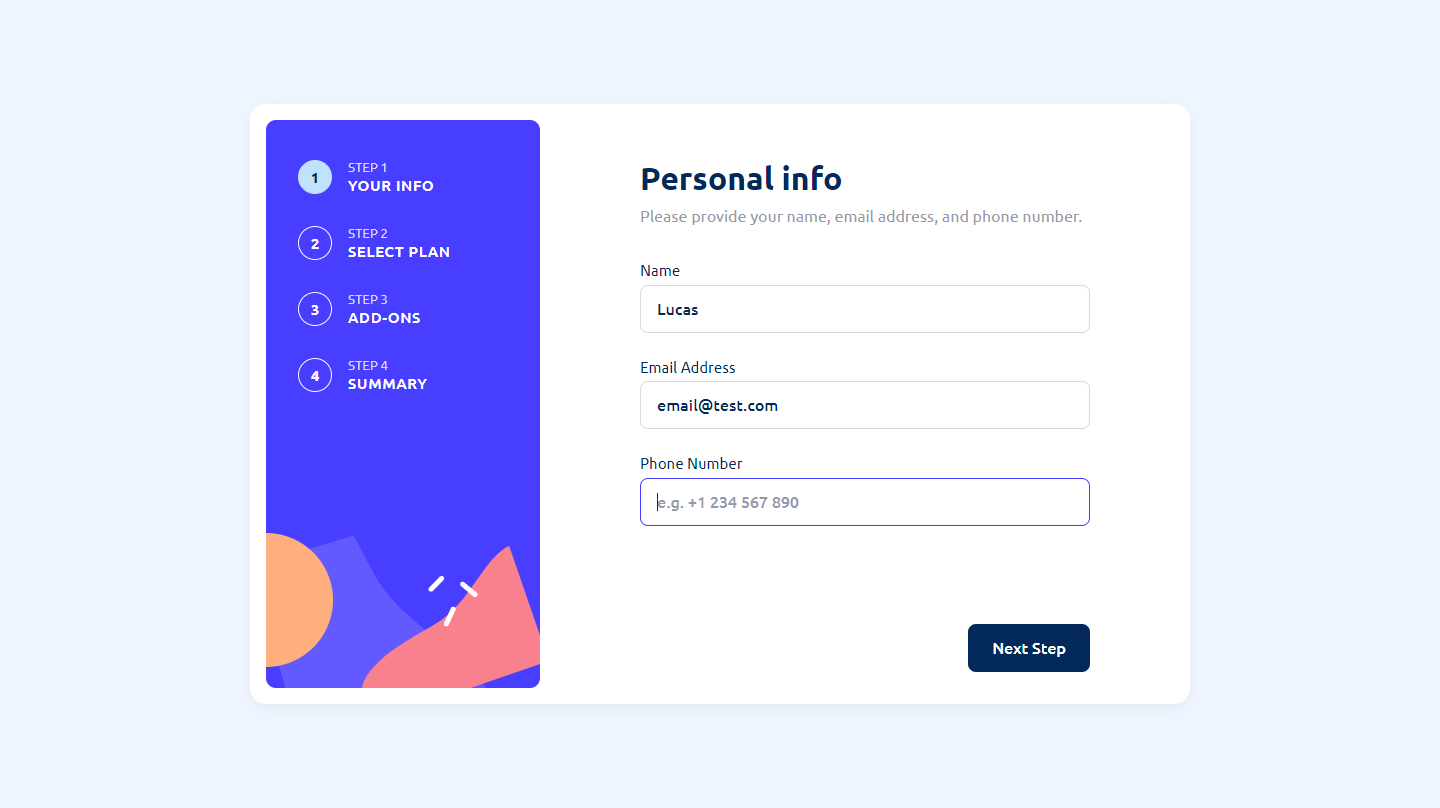
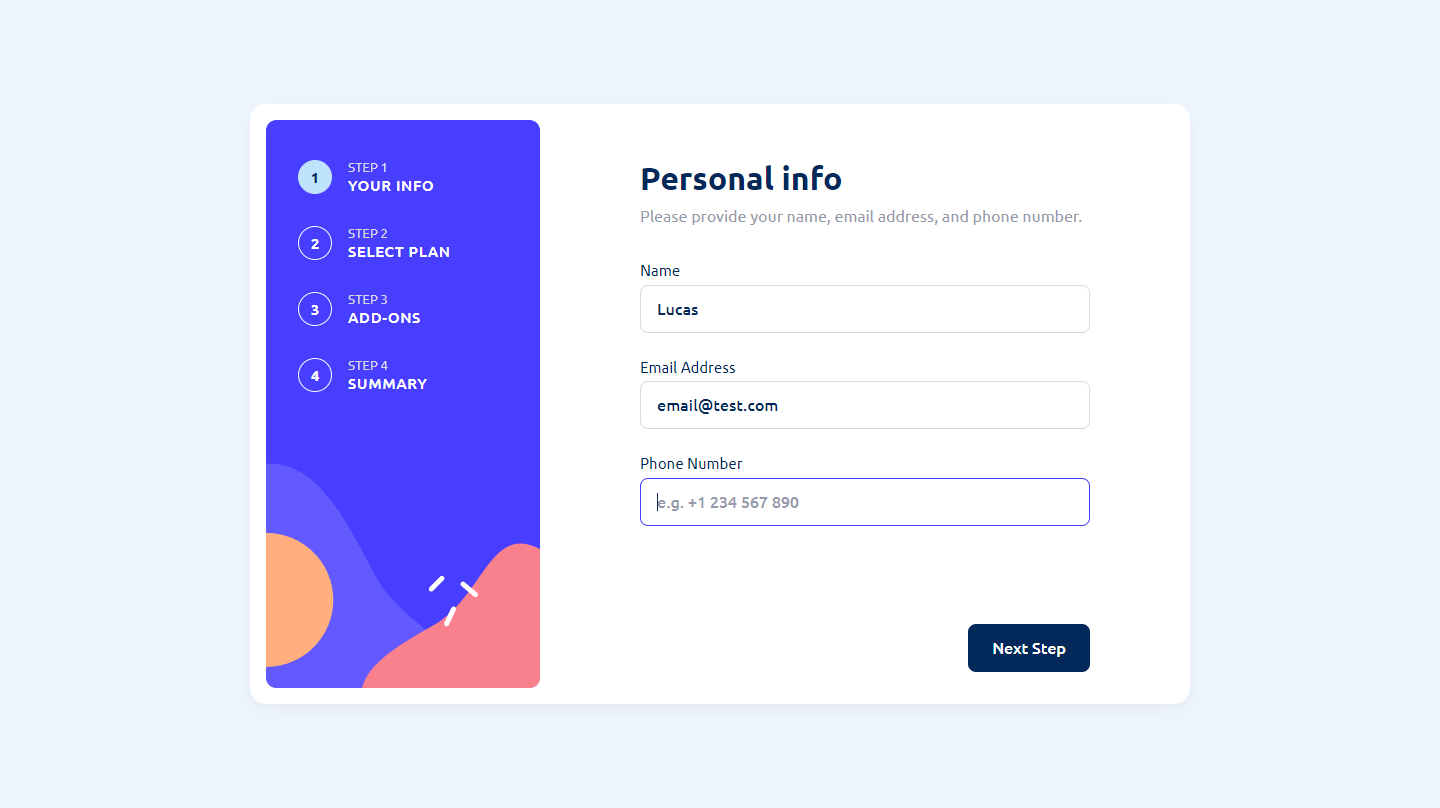
images update

diff --git a/docs/assets/index.b7fdeb86.css b/docs/assets/index.b7fdeb86.css
@@ -1,0 +1,1 @@
+*,*:before,*:after{box-sizing:border-box}*{padding:0;margin:0}html:focus-within{scroll-behavior:smooth}html,body{height:100%}body{text-rendering:optimizeSpeed;line-height:1}a:not([class]){text-decoration-skip-ink:auto}a,a:visited,a:active{text-decoration:none}ul,ol{list-style:none}img,picture,svg{max-width:100%;display:block}input,button,textarea,select{font:inherit}button,[type=button],[type=reset],[type=submit]{border:0;cursor:pointer}@media (prefers-reduced-motion: reduce){html:focus-within{scroll-behavior:auto}*,*:before,*:after{animation-duration:.01ms!important;animation-iteration-count:1!important;transition-duration:.01ms!important;scroll-behavior:auto!important}}:root{--duration-1: .15s;--duration-2: .2s;--step-duration: .5s;--step-delay: .1s}body{background-color:var(--color-magnolia)}@media screen and (max-width: 63.99875em){body:before{content:"";width:100%;height:10.75rem;position:absolute;background:url(./bg-sidebar-mobile.f8e29a05.svg) center/cover no-repeat;z-index:-1}}@media screen and (max-width: 63.99875em) and (max-width: 23.43625em){body:before{background-size:auto}}@media screen and (min-width: 64em){main{padding-block:6.5rem}}.flex-column{display:flex;flex-direction:column}.space-between{display:flex;justify-content:space-between;column-gap:.625rem}.align-center{display:flex;align-items:center}.hidden{display:none!important}.invisible{width:0px;position:absolute;opacity:hidden}:root{--font-ubuntu: "Ubuntu", sans-serif;--font-size-headline-2: 1.5rem;--font-size-headline-3: .9375rem;--font-size-2: .8125rem;--font-size-3: .875rem;--font-size-4: 1rem;--font-size-5: var(--font-size-3);--font-size-6: var(--font-size-4)}@media screen and (min-width: 48em){:root{--font-size-headline-2: 1.75rem;--font-size-headline-3: 1.0625rem;--font-size-2: .9375rem;--font-size-3: 1rem;--font-size-4: 1.125rem}}@media screen and (min-width: 64em){:root{--font-size-headline-2: 2rem;--font-size-2: .875rem;--font-size-3: .9375rem;--font-size-4: 1rem;--font-size-5: 1rem;--font-size-6: 1.25rem}}body{font-family:var(--font-ubuntu)}.headline-2{font-size:var(--font-size-headline-2);font-weight:700;color:var(--color-marine-blue);margin-block-end:.625rem}.headline-3{font-size:var(--font-size-headline-3);font-weight:700;color:var(--color-marine-blue)}.text{font-size:var(--font-size-4);font-weight:400;color:var(--color-cool-gray);line-height:1.5}.text--xsm{font-size:var(--font-size-2)}.text--sm{font-size:var(--font-size-3)}.text--md{font-size:var(--font-size-5)}.text--lg{font-size:var(--font-size-6)}.text--700{font-weight:700}.text--500{font-weight:500}.text--center{text-align:center}.text--purple{color:var(--color-purplish-blue)}.text--dark{color:var(--color-marine-blue)}.text-error{font-size:var(--font-size-3);font-weight:700;color:var(--color-strawberry-red);text-align:end;line-height:1.5}:root{--color-marine-blue: hsl(213, 96%, 18%);--color-purplish-blue: hsl(243, 100%, 62%);--color-pastel-blue: hsl(228, 100%, 84%);--color-pastel-blue-01: hsl(228, 100%, 84%, .1);--color-light-blue: hsl(206, 94%, 87%);--color-strawberry-red: hsl(354, 84%, 57%);--color-cool-gray: hsl(231, 11%, 63%);--color-light-gray: hsl(229, 24%, 87%);--color-magnolia: hsl(217, 100%, 97%);--color-alabaster: hsl(231, 100%, 99%);--color-white: hsl(0, 0%, 100%)}.card{min-height:100vh;display:grid;grid-auto-rows:auto 1fr}@media screen and (min-width: 64em){.card{--card-max-width: 31.25rem;--card-shadow-color: rgb(0, 0, 0, .09);width:min(100% - 1rem * 2,var(--card-max-width));padding:2rem 1.5rem;background-color:var(--color-white);border-radius:.625rem;box-shadow:0 .3125rem 1.25rem var(--card-shadow-color);min-height:auto;grid-template-columns:17.125rem auto;margin-inline:auto}}@media screen and (min-width: 64em) and (min-width: 64em){.card{--card-max-width: 58.75rem;--card-shadow-color: rgb(0, 0, 0, .05);padding:1rem;border-radius:1rem}}.sidebar{padding:2rem 1rem 0}@media screen and (min-width: 64em){.sidebar{min-height:35.5rem;padding:2.5rem 2rem;background:url(./bg-sidebar-desktop.e6d2744a.svg) top center/cover no-repeat;border-radius:.625rem}}.sidebar__list{display:flex;justify-content:center;align-items:center;column-gap:1rem}@media screen and (min-width: 64em){.sidebar__list{flex-direction:column;align-items:flex-start;row-gap:2rem}}.sidebar__list .item{counter-increment:item-counter}@media screen and (min-width: 64em){.sidebar__list .item{display:flex;column-gap:1rem;align-items:center}}.sidebar__list .item:before{--counter-size: 2.125rem;content:counter(item-counter);width:var(--counter-size);height:var(--counter-size);display:grid;place-items:center;font-size:var(--font-size-3);font-weight:700;color:var(--color-alabaster);border:.0625rem solid currentColor;border-radius:50%;transition-property:background-color,color,border-color;transition:calc(var(--step-duration) / 2) ease-in}@media screen and (min-width: 48em) and (max-width: 63.99875em){.sidebar__list .item:before{--counter-size: 2.5rem}}.sidebar__list .item.active:before{background-color:var(--color-light-blue);color:var(--color-marine-blue);border-color:var(--color-light-blue)}.sidebar__list .item__content{row-gap:.25rem}@media screen and (max-width: 63.99875em){.sidebar__list .item__content{display:none}}.sidebar__list .item__headline{font-size:.8125rem;font-weight:400;color:var(--color-light-gray);text-transform:uppercase}.sidebar__list .item__sub-headline{font-size:.9375rem;font-weight:500;color:var(--color-white);text-transform:uppercase;letter-spacing:.05em}.form{justify-content:space-between}@media screen and (min-width: 64em){.form{width:100%;padding:2.625rem 5.25rem 1rem 6.25rem}}.form__steps{--steps-padding-block: 2.125rem 1.5rem;--steps-height: auto;width:100%;min-height:var(--steps-height);display:flex;justify-content:center;align-items:flex-start;position:relative;overflow:hidden;padding-block:var(--steps-padding-block);margin-inline:auto}@media screen and (min-width: 64em){.form__steps{--steps-padding-block: 0}}.form__control{align-items:center;background-color:var(--color-white)}@media screen and (max-width: 63.99875em){.form__control{padding:1rem}}.step{width:100%}@media screen and (max-width: 63.99875em){.step{--card-max-width: 31.25rem;--card-shadow-color: rgb(0, 0, 0, .09);width:min(100% - 1rem * 2,var(--card-max-width));padding:2rem 1.5rem;background-color:var(--color-white);border-radius:.625rem;box-shadow:0 .3125rem 1.25rem var(--card-shadow-color);flex-shrink:0}}@media screen and (max-width: 63.99875em) and (min-width: 64em){.step{--card-max-width: 58.75rem;--card-shadow-color: rgb(0, 0, 0, .05);padding:1rem;border-radius:1rem}}.step.slide-out{position:absolute;top:var(--steps-padding-block);animation:slide-out var(--step-duration) ease-in-out forwards}@keyframes slide-out{to{opacity:0;transform:translate(100%)}}.step.slide-in{opacity:0;transform:translate(100%);animation:slide-in var(--step-duration) ease-in-out var(--step-delay) forwards}@keyframes slide-in{to{opacity:1;transform:translate(0)}}.step.scale-down{position:absolute;top:var(--steps-padding-block);animation:scale-down var(--step-duration) ease-in-out forwards}@keyframes scale-down{to{opacity:0;transform:scale(.75)}}.step.scale-up{opacity:0;transform:scale(.75);animation:scale-up var(--step-duration) ease-in-out var(--step-delay) forwards}@keyframes scale-up{to{opacity:1;transform:scale(1)}}.step__fields{row-gap:1rem;margin-block-start:1.25rem}@media screen and (min-width: 64em){.step__fields{margin-block-start:2rem}.personal .step__fields{row-gap:1.5rem}.plan .step__fields{display:grid;grid-template-columns:repeat(3,1fr);column-gap:1.125rem}}.field{position:relative}.field__container{display:flex;column-gap:.875rem;padding:.875rem;border:.0625rem solid var(--color-light-gray);border-radius:.5rem;cursor:pointer;transition-property:border-color,background-color;transition:var(--duration-2) ease}@media screen and (min-width: 64em){.plan .field__container{flex-direction:column;row-gap:3rem}.add-on .field__container{column-gap:1.375rem;padding:1.25rem 1.375rem}}.field__input:focus-visible+.field__container,.field__container:hover{border-color:var(--color-purplish-blue)}.field__input:checked+.field__container{background-color:#adbeff1a;border-color:var(--color-purplish-blue)}.personal__input{width:100%;padding:.625rem 1rem;font-weight:500;color:var(--color-marine-blue);border:.0625rem solid var(--color-light-gray);border-radius:.25rem}@media screen and (min-width: 48em){.personal__input{padding-block:.875rem;border-radius:.5rem;margin-block-start:.125rem}}.personal__input:focus-visible{outline:none;border-color:var(--color-purplish-blue)}.personal__input::placeholder{font-weight:inherit;color:var(--color-cool-gray)}.personal__input.error{border-color:var(--color-strawberry-red)}.plan__content{row-gap:.375rem}.plan .icon{--plan-icon-size: 2.5rem;width:var(--plan-icon-size);height:var(--plan-icon-size)}@media screen and (min-width: 48em) and (max-width: 63.99875em){.plan .icon{--plan-icon-size: 2.75rem}}.plan .options{display:flex;justify-content:center;align-items:center;column-gap:1.5rem;padding:.875rem;margin-block-start:1.5rem;background-color:#adbeff1a;border-radius:.5rem}@media screen and (max-width: 19.99875em){.plan .options{column-gap:1rem}}@media screen and (min-width: 64em){.plan .options{margin-block-start:2rem}}.toggle__custom{--toggle-width: 2.375rem;--toggle-height: 1.25rem;--toggle-padding: .25rem;width:var(--toggle-width);height:var(--toggle-height);display:block;position:relative;padding:var(--toggle-padding);background-color:var(--color-marine-blue);border-radius:calc(var(--toggle-height) / 2);cursor:pointer}@media screen and (min-width: 48em) and (max-width: 63.99875em){.toggle__custom{--toggle-width: 2.625rem;--toggle-height: 1.375rem}}.toggle__custom:before{--toogle-icon-size: calc(var(--toggle-height) - var(--toggle-padding) * 2);content:"";width:var(--toogle-icon-size);height:var(--toogle-icon-size);display:block;background-color:var(--color-white);border-radius:50%;transition:transform var(--duration-2) ease}.toggle__input:checked+.toggle__custom:before{transform:translate(calc(100% + var(--toggle-padding) + var(--toggle-padding) / 2))}.add-on__checkbox{--checkbox-size: 1.25rem;--checkbox-border-width: .0625rem;width:var(--checkbox-size);height:var(--checkbox-size);flex-shrink:0;appearance:none;position:relative;background-color:transparent;border:var(--checkbox-border-width) solid var(--color-light-gray);border-radius:.25rem;cursor:pointer}.add-on__checkbox:before{content:url(./icon-checkmark.20a2d5c8.svg);width:inherit;height:inherit;position:absolute;inset:calc(var(--checkbox-border-width) * -1);opacity:0;padding:.0625rem .25rem 0;background-color:var(--color-purplish-blue);border-radius:inherit;transition:opacity var(--duration-2) ease}.field__input:checked~.field__container .add-on__checkbox:before{opacity:1}.add-on__content{flex:1;align-items:center;gap:.5rem}@media screen and (max-width: 19.99875em){.add-on__content{flex-wrap:wrap}}.add-on__wrapper{row-gap:.125rem}.summary__container{padding-inline:1rem;margin-block-start:1.5rem}@media screen and (min-width: 64em){.summary__container{padding-inline:1.375rem}}.summary__content{padding-block:1rem}@media screen and (min-width: 64em){.summary__content{padding-block:1.375rem}}.summary__selected{background-color:var(--color-pastel-blue-01);border-radius:.5rem}.summary__wrapper{row-gap:.25rem}@media screen and (min-width: 64em){.summary__wrapper{row-gap:.375rem}}.summary__add-on{row-gap:.5rem;border-block-start:.0625rem solid var(--color-light-gray)}.summary__add-on:empty{display:none}@media screen and (min-width: 64em){.summary__add-on{row-gap:.75rem}}.confirmation{padding-block:5rem}.confirmation .icon{--icon-size: 3.5rem;width:var(--icon-size);height:var(--icon-size);margin-block-end:1.5rem}@media screen and (min-width: 64em){.confirmation .icon{--icon-size: 5rem;margin-block-end:2.125rem}}@media screen and (min-width: 64em){.confirmation .headline-2{margin-block-end:1rem}}.button,.button-back,.button-next,.button-confirm,.button-change{display:grid;place-items:center;background-color:transparent;font-size:var(--font-size-5);font-weight:500}.button-back{height:min-content;padding-block:.375rem;color:var(--color-cool-gray);transition:color var(--duration-1) ease}.button-back:hover,.button-back:focus-visible{color:var(--color-marine-blue)}.button-next,.button-confirm{width:6.125rem;height:2.5rem;margin-inline-start:auto;color:var(--color-white);border-radius:.25rem}@media screen and (min-width: 48em){.button-next,.button-confirm{width:6.75rem;height:2.75rem;border-radius:.375rem}}@media screen and (min-width: 64em){.button-next,.button-confirm{width:7.625rem;height:3rem;border-radius:.5rem}}.button-next{background-color:var(--color-marine-blue);transition:filter var(--duration-1) ease}.button-next:hover,.button-next:focus-visible{filter:saturate(150%) opacity(90%)}.button-confirm{background-color:var(--color-purplish-blue);transition:filter var(--duration-1) ease}.button-confirm:hover,.button-confirm:focus-visible{filter:opacity(80%)}.button-change{width:fit-content;color:var(--color-cool-gray);text-decoration:underline solid currentColor .125rem;transition:color var(--duration-1) ease}.button-change:hover,.button-change:focus-visible{color:var(--color-purplish-blue)}

diff --git a/docs/index.html b/docs/index.html
@@ -11,7 +11,7 @@
     <link href="https://fonts.googleapis.com/css2?family=Ubuntu:wght@400;500;700&display=swap" rel="stylesheet" />
     
     <script type="module" crossorigin src="./assets/index.e8b22378.js"></script>
-    <link rel="stylesheet" href="./assets/index.78319704.css">
+    <link rel="stylesheet" href="./assets/index.b7fdeb86.css">
   </head>
   <body>
     <main>
